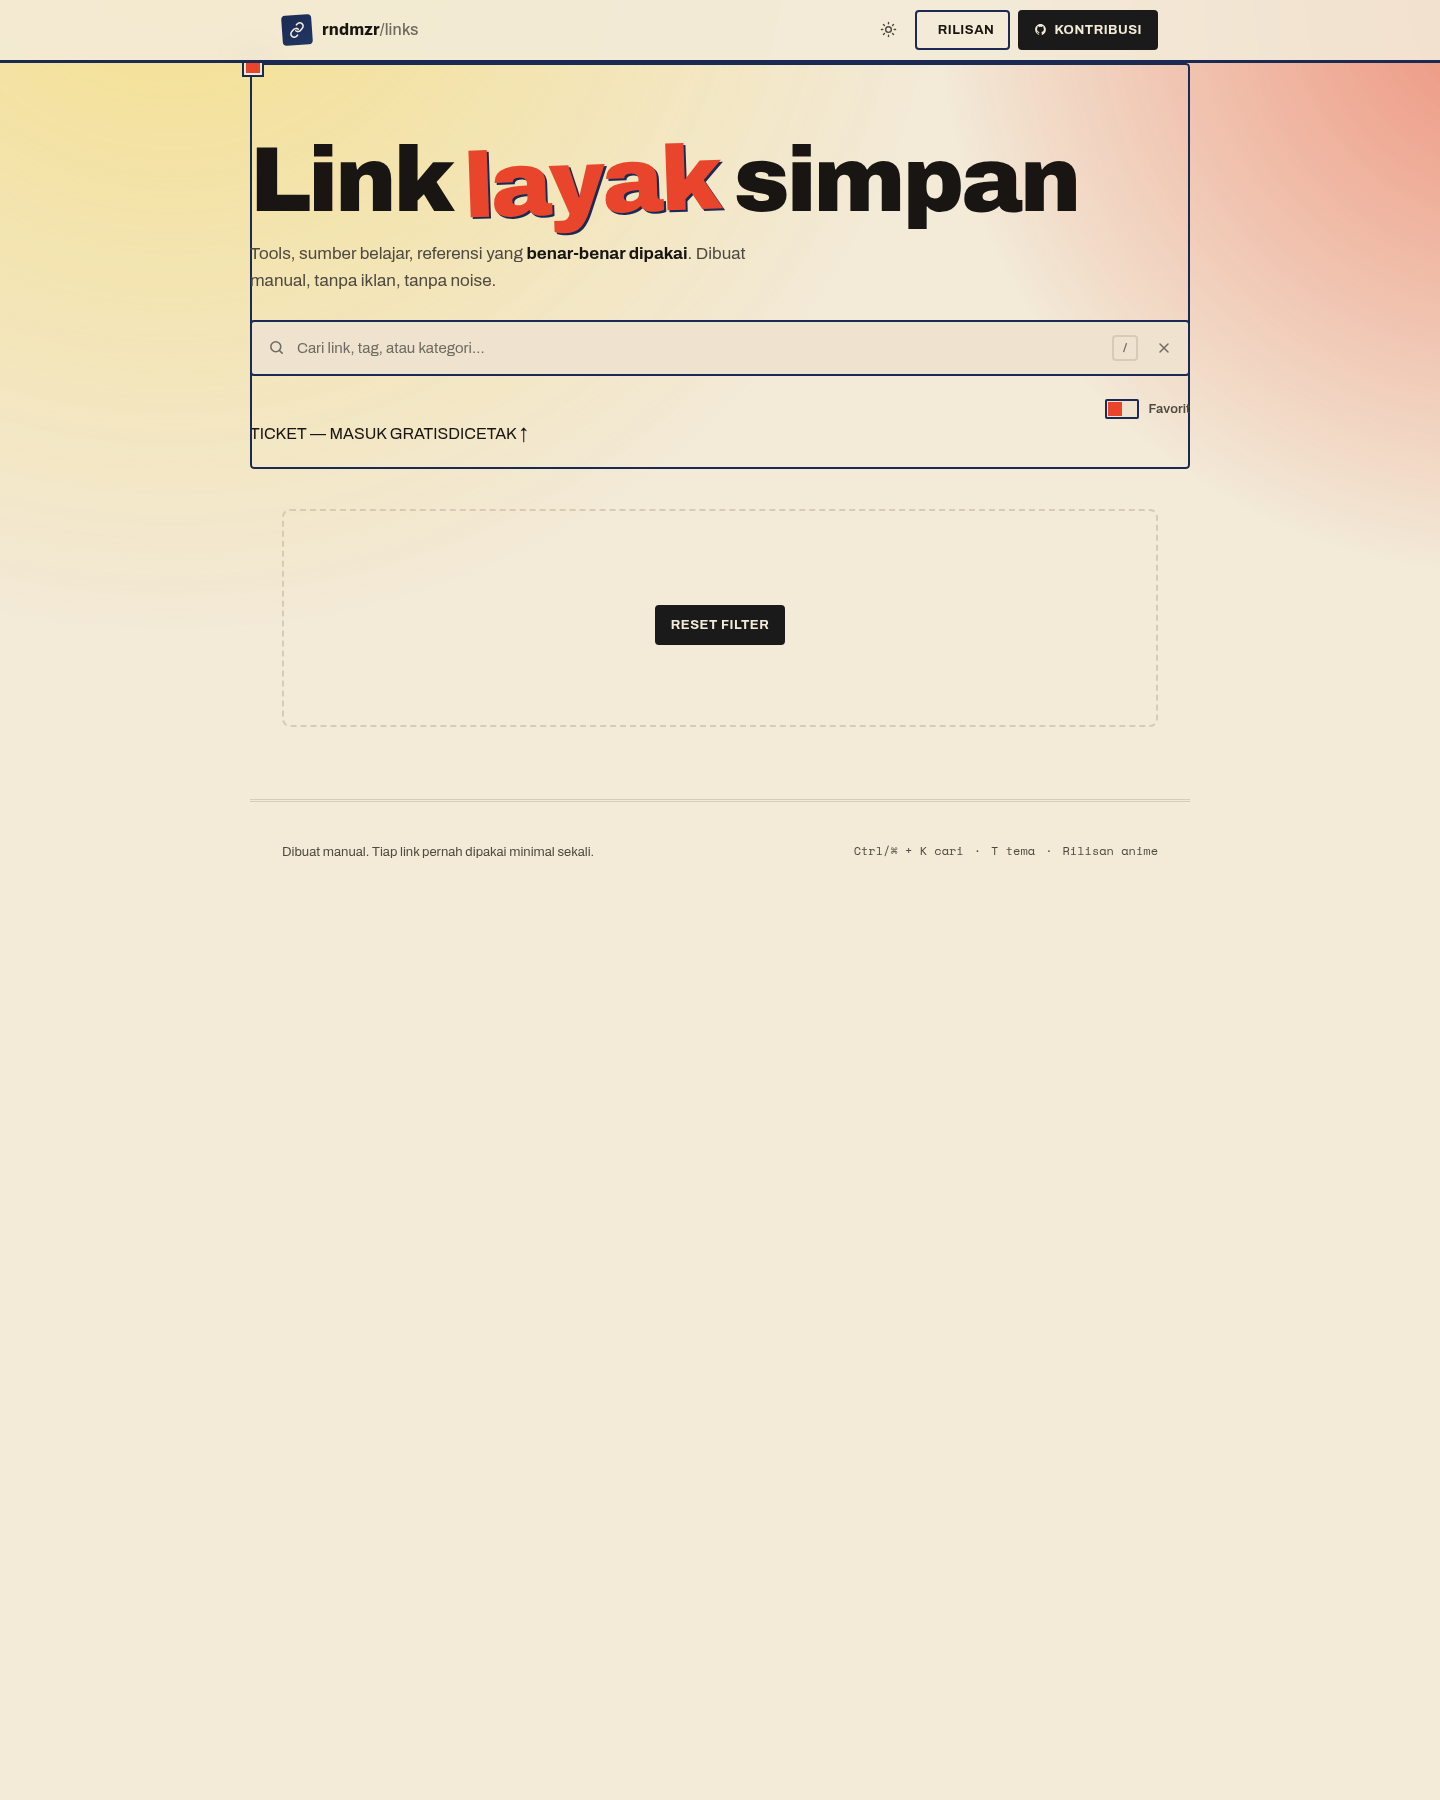
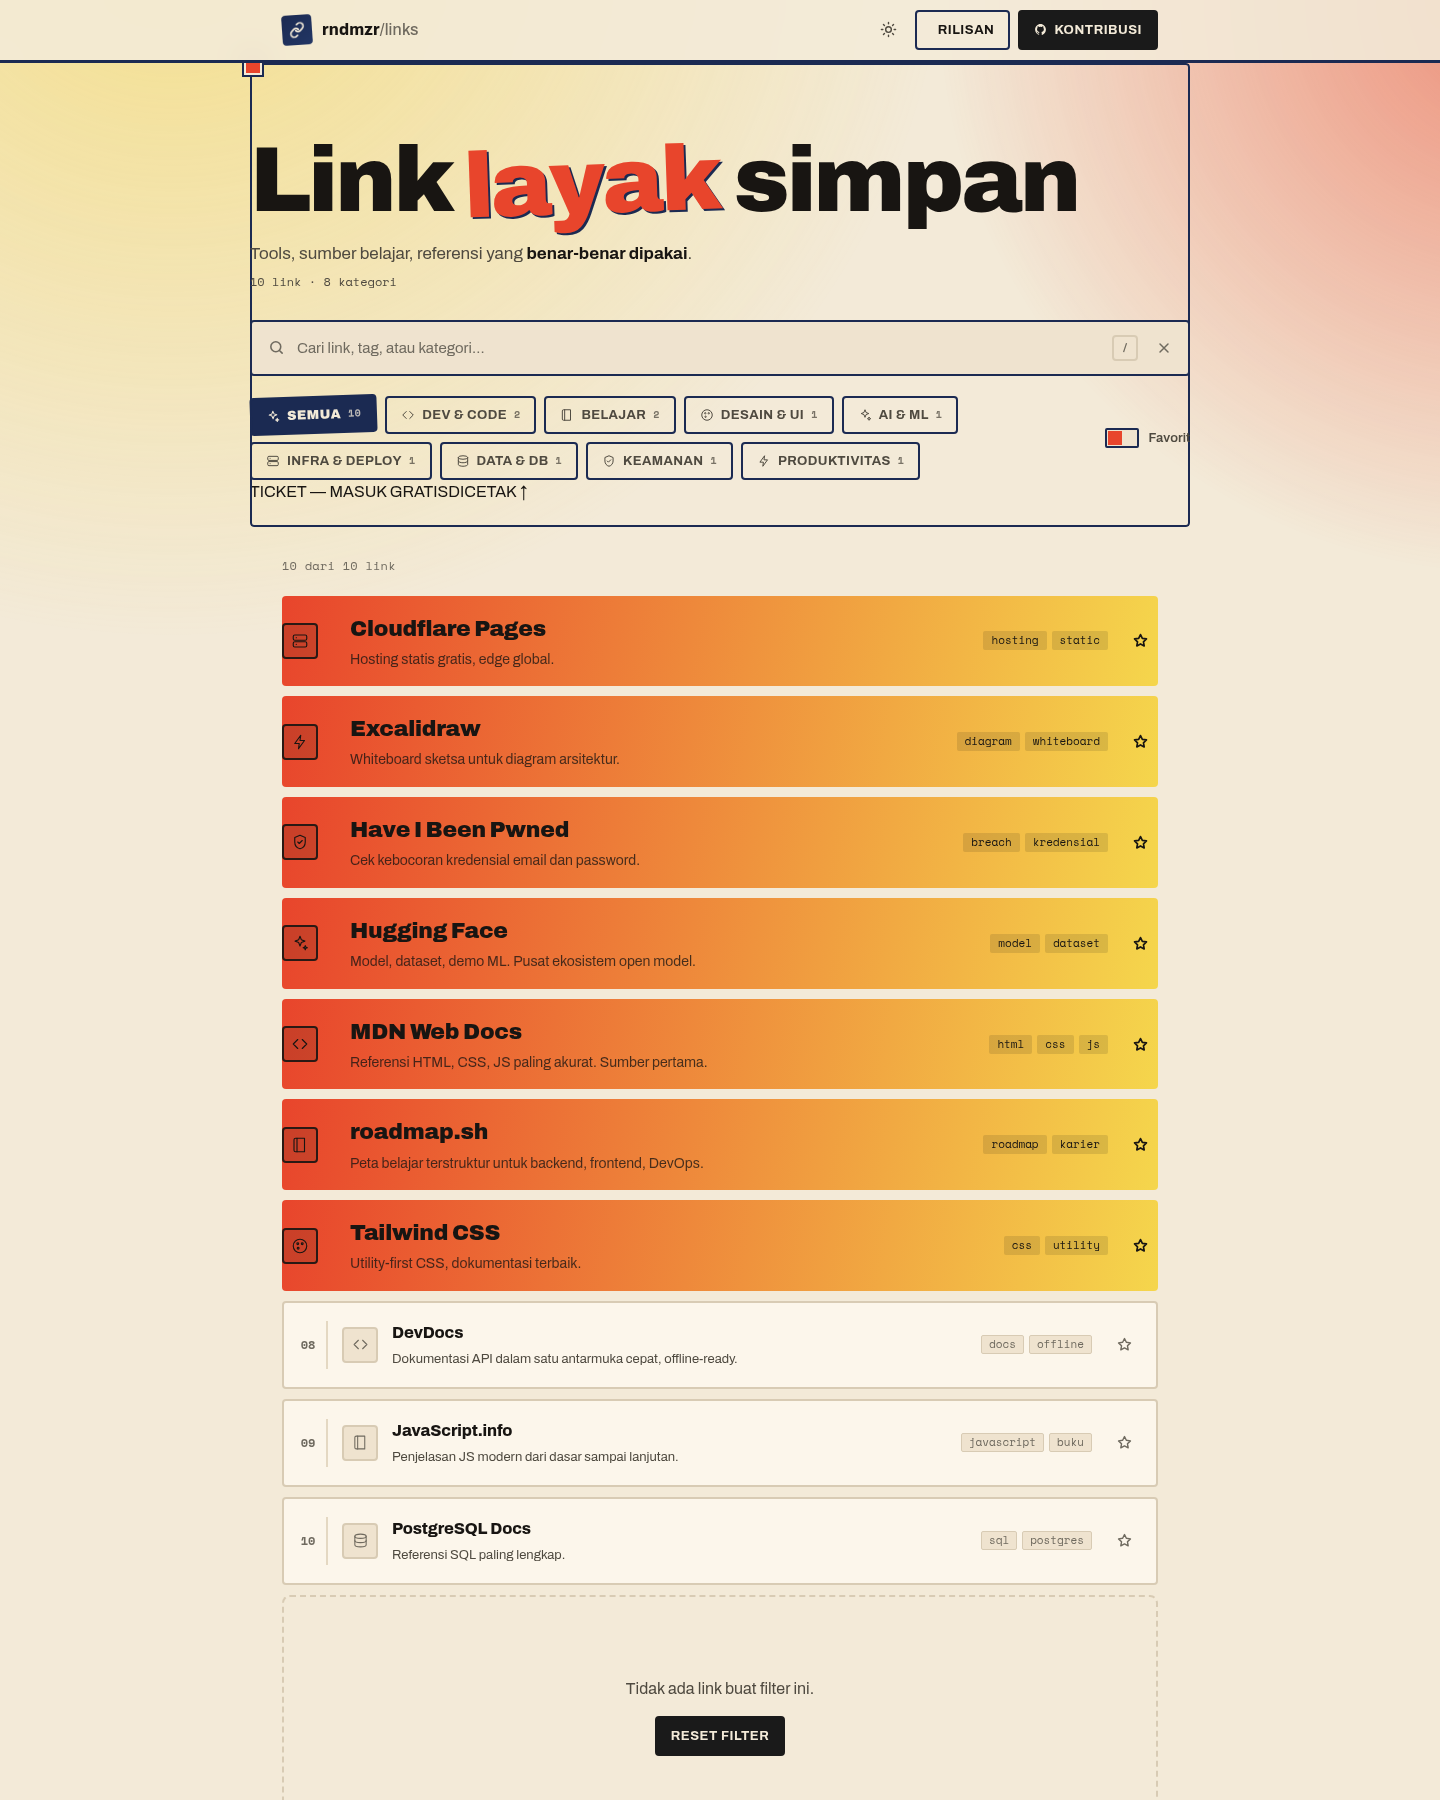
fix: render gagal karena totalCount/catCount null; redesign daftar link jadi lembar tiket cetak

diff --git a/public/assets/style.css b/public/assets/style.css
@@ -241,22 +241,30 @@ h1 em {
 .result-bar { display: flex; align-items: center; justify-content: space-between; gap: 12px; padding: 30px 0 10px; }
 .status { font-family: var(--font-mono); font-size: 12px; color: var(--fg-dim); letter-spacing: .02em; }
 
-/* ---- grid rows : sheet ---- */
+/* ---- grid rows : lembar tiket cetak ---- */
 .grid { list-style: none; padding: 0; margin: 0; }
 .row {
   position: relative; display: flex; align-items: center; gap: 14px;
-  padding: 14px 0; border-top: 2px solid var(--line); margin: 0;
-  transition: background var(--dur), border-color var(--dur);
+  padding: 18px 14px; margin: 10px 0; border: 2px solid var(--line); border-radius: var(--r-sm);
+  background: var(--surface); transition: border-color var(--dur), background var(--dur), transform .12s var(--ease);
   animation: rise 320ms var(--ease) both;
 }
-.row:hover { background: var(--bg-soft); }
-.row:focus-within { background: var(--bg-soft); }
-.row-link { position: absolute; inset: 0; }
+.row:hover { border-color: var(--midnight); background: var(--bg-soft); transform: rotate(-0.4deg); }
+.row:focus-within { border-color: var(--midnight); background: var(--bg-soft); }
+.row:hover .ticket-no { color: var(--accent); }
+.row-link { position: absolute; inset: 0; z-index: 0; border-radius: var(--r-sm); }
+
+.ticket-no {
+  flex: none; width: 30px; text-align: center; font-size: 12px; font-weight: 700;
+  color: var(--fg-dim); border-right: 2px solid var(--line-soft); padding-right: 8px; align-self: stretch;
+  display: flex; align-items: center; justify-content: center; transition: color var(--dur);
+}
+.row.lead .ticket-no { display: none; }
 
 /* signature move: split-fountain headliner */
 .row.lead {
-  margin-top: 8px; padding: 0; border: 0; border-radius: var(--r-md); overflow: hidden;
-  background: var(--grad-split);   animation: fountain-in 520ms var(--ease) both;
+  margin: 10px 0; padding: 0; border: 0; border-radius: var(--r-sm); overflow: hidden;
+  background: var(--grad-split); animation: fountain-in 520ms var(--ease) both;
 }
 @keyframes fountain-in { from { opacity: 0; transform: translateY(8px) } }
 .row.lead .row-main { padding: 16px 18px; }
@@ -264,32 +272,35 @@ h1 em {
   font-size: 22px; font-weight: 900; color: #181512; white-space: normal;
 }
 .row.lead .row-desc { color: rgba(24, 21, 18, .78); font-size: 14px; }
-.row.lead .favicon { background: rgba(24,21,18,.1); border: 2px solid rgba(24,21,18,.9); color: #181512; }
+.row.lead .favicon { background: rgba(24,21,18,.14); border: 2px solid rgba(24,21,18,.9); color: #181512; }
+.row.lead .favicon svg { width: 18px; height: 18px; }
 .row.lead .star { color: #181512; }
 .row.lead .star svg { stroke-width: 2.4; }
+.row.lead .star:hover { background: rgba(24,21,18,.14); border-color: transparent; }
 .row.lead .tag { border-color: transparent; background: rgba(24,21,18,.12); color: #181512; }
 
 .favicon {
-  flex: none; width: 34px; height: 34px; border-radius: var(--r-sm); display: grid; place-items: center;
+  flex: none; width: 36px; height: 36px; border-radius: var(--r-sm); display: grid; place-items: center;
   background: var(--bg-soft); border: 2px solid var(--line); color: var(--fg-dim);
+  transition: border-color var(--dur), color var(--dur);
 }
-.favicon svg { width: 16px; height: 16px; }
-.row-main { display: flex; flex-direction: column; gap: 2px; flex: 1; min-width: 0; }
+.favicon svg { width: 17px; height: 17px; }
+.row:hover .favicon { border-color: var(--accent); color: var(--accent); }
+.row-main { display: flex; flex-direction: column; gap: 3px; flex: 1; min-width: 0; }
 .row-title { display: block; font-size: 16px; font-weight: 800; letter-spacing: -.01em; white-space: nowrap; overflow: hidden; text-overflow: ellipsis; }
-.row-desc { display: block; font-size: 13px; color: var(--fg-soft); white-space: nowrap; overflow: hidden; text-overflow: ellipsis; }
+.row-desc { display: none; font-size: 13px; color: var(--fg-soft); white-space: nowrap; overflow: hidden; text-overflow: ellipsis; }
 .row-tags { display: flex; gap: 5px; flex: none; }
-.tag { display: inline-flex; font-family: var(--font-mono); font-size: 11px; line-height: 1; color: var(--fg-dim); border: 1.5px solid var(--line); border-radius: 2px; padding: 3px 7px; }
+.tag { display: inline-flex; font-family: var(--font-mono); font-size: 11px; line-height: 1; color: var(--fg-dim); border: 1.5px solid var(--line); border-radius: 2px; padding: 3px 7px; background: var(--bg-soft); }
 .star {
-  position: relative; z-index: 1; flex: none; width: 34px; height: 34px; display: grid; place-items: center; cursor: pointer;
+  position: relative; z-index: 1; flex: none; width: 36px; height: 36px; display: grid; place-items: center; cursor: pointer;
   background: none; border: 2px solid transparent; border-radius: var(--r-sm); color: var(--fg-dim);
   transition: color var(--dur), background var(--dur), transform var(--dur) var(--ease), border-color var(--dur);
 }
-.star svg { width: 16px; height: 16px; }
+.star svg { width: 17px; height: 17px; }
 .star:hover { color: var(--accent); background: var(--bg-soft); transform: scale(1.06); border-color: var(--line); }
 .star[aria-pressed="true"] { color: var(--accent); border-color: var(--accent); background: var(--accent-soft); }
-.row-desc { display: none; }
 @media (min-width: 641px) { .row-desc { display: block; } }
-@media (max-width: 640px) { .row-tags { display: none; } }
+@media (max-width: 640px) { .row-tags { display: none; } .ticket-no { display: none; } }
 
 /* ---- empty / footer / toast ---- */
 .empty { display: grid; justify-items: center; gap: 14px; padding: 80px 20px; text-align: center; color: var(--fg-soft); border: 2px dashed var(--line); border-radius: var(--r-md); }

diff --git a/public/assets/app.js b/public/assets/app.js
@@ -45,12 +45,14 @@ function highlight(text, q) {
 
 const results = () => filterLinks(LINKS, haystack, { ...state, favs });
 
-function row(l, q) {
+function row(l, q, i) {
   const c = catOf(l.cat);
   const isFav = favs.has(l.url);
   const lead = l.featured ? " lead" : "";
+  const num = String(i + 1).padStart(2, "0");
   return `<li class="row${lead}" data-url="${escapeHtml(l.url)}">
     <a class="row-link" href="${escapeHtml(l.url)}" target="_blank" rel="noopener noreferrer"><span class="sr-only">Buka ${escapeHtml(l.title)}</span></a>
+    <span class="ticket-no mono" aria-hidden="true">${num}</span>
     <span class="favicon" aria-hidden="true">${icon(c?.icon, 1.5)}</span>
     <span class="row-main">
       <span class="row-title">${highlight(l.title, q)}</span>
@@ -72,7 +74,7 @@ function renderChips() {
 function render() {
   const list = results();
   const q = state.q.trim();
-  grid.innerHTML = list.map((l) => row(l, q)).join("");
+  grid.innerHTML = list.map((l, i) => row(l, q, i)).join("");
   emptyBox.hidden = list.length > 0;
   emptyBox.querySelector("p").innerHTML = q ? `Tidak ada hasil untuk <strong>${escapeHtml(q)}</strong>.` : "Tidak ada link buat filter ini.";
   status.textContent = [`${list.length} dari ${LINKS.length} link`, (state.cat !== "all" ? catOf(state.cat)?.label : null), (state.favOnly ? "favorit" : null)].filter(Boolean).join(" · ");

diff --git a/public/index.html b/public/index.html
@@ -45,7 +45,7 @@
   <section class="bill wrap">
     <div class="bill-head">
       <h1 id="headline">Link <em>layak</em> simpan</h1>
-      <p class="lede">Tools, sumber belajar, referensi yang <strong>benar-benar dipakai</strong>. Dibuat manual, tanpa iklan, tanpa noise.</p>
+      <p class="lede">Tools, sumber belajar, referensi yang <strong>benar-benar dipakai</strong>.<br><span class="mono"><span id="totalCount">0</span> link · <span id="catCount">0</span> kategori</span></p>
       <div class="search">
         <svg class="search-ico" viewBox="0 0 24 24" fill="none" stroke="currentColor" stroke-width="2.2" stroke-linecap="round" aria-hidden="true"><circle cx="11" cy="11" r="7"/><path d="m20 20-3.5-3.5"/></svg>
         <input id="q" type="search" placeholder="Cari link, tag, atau kategori…" autocomplete="off" spellcheck="false" aria-label="Cari link" aria-controls="grid">
